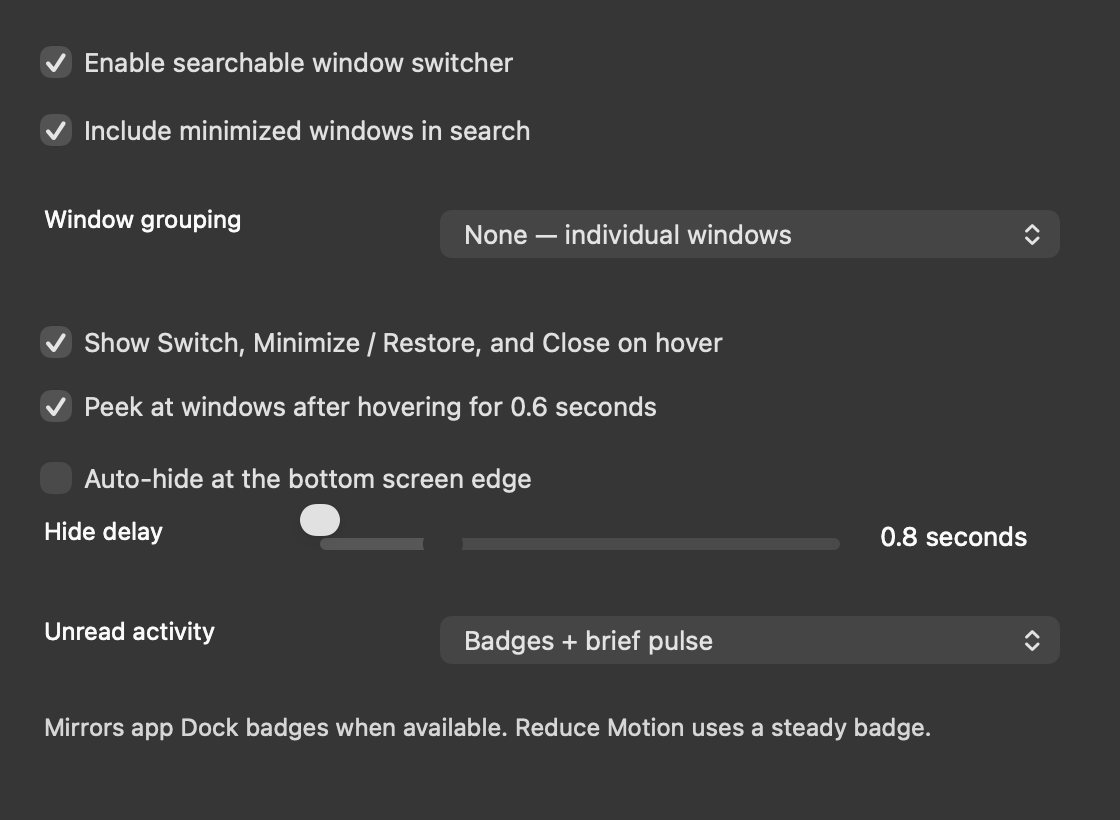
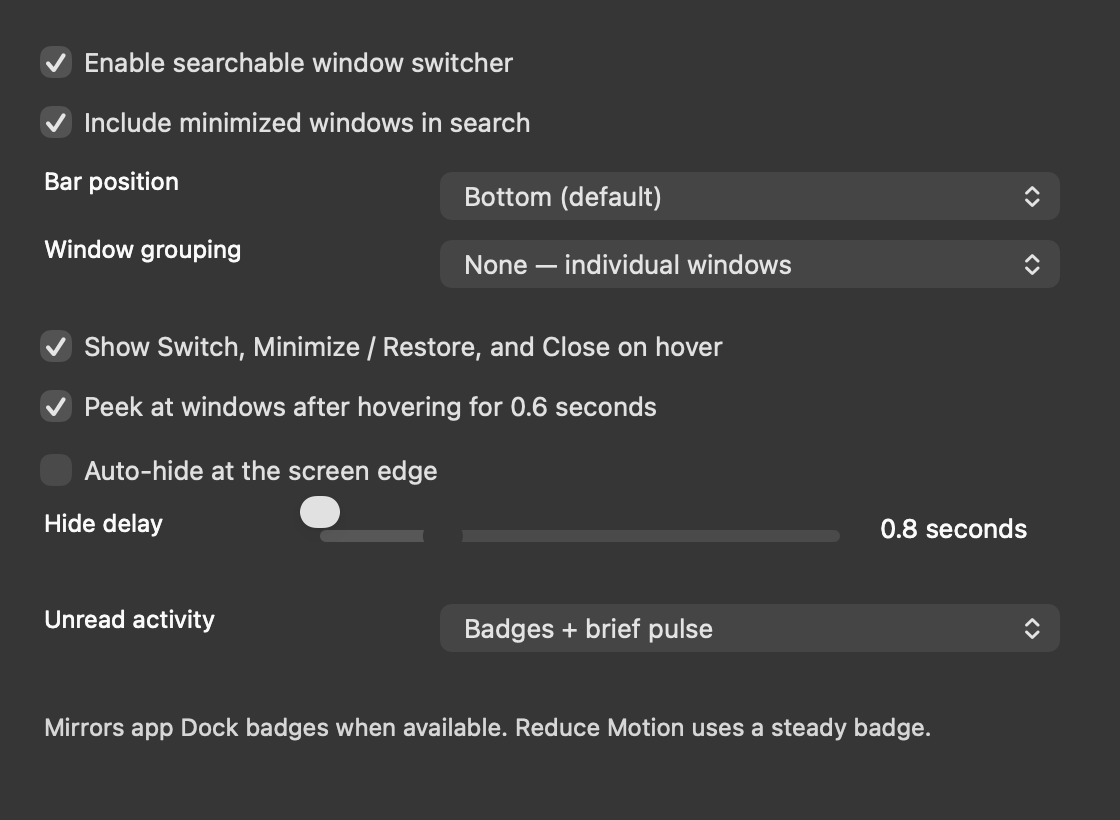
Render side dock, bar tint and Appearance screenshots
PreviewRenderer now renders the side column, the collapsed column and a
strongly tinted bar from sample data. Behavior and Appearance settings
images are refreshed for the Bar position and Appearance options.

diff --git a/Sources/WindowBar/Preview/PreviewRenderer.swift b/Sources/WindowBar/Preview/PreviewRenderer.swift
@@ -115,6 +115,13 @@ enum PreviewRenderer {
         grouped.blendingMode = .withinWindow
         grouped.layer?.backgroundColor = NSColor(calibratedWhite: 0.16, alpha: 1).cgColor
         try writeView(grouped, to: directory.appendingPathComponent("grouping.png"))
+        var tinted = BarPreferences()
+        tinted.barTint = .strong
+        grouped.update(
+            entries: sampleWindows(), trusted: true, launchers: sampleLaunchers(), preferences: tinted)
+        grouped.layoutSubtreeIfNeeded()
+        try writeView(grouped, to: directory.appendingPathComponent("bar-tint.png"))
+        try sideColumns(in: directory)
         if let button = FeatureViewVerification.descendants(grouped).compactMap({ $0 as? WindowButton })
             .first(where: { !$0.entry.focused })
         {
@@ -127,6 +134,28 @@ enum PreviewRenderer {
                 try writeView(view, to: directory.appendingPathComponent("hover-actions.png"))
             }
             hover.hide()
+        }
+    }
+
+    private static func sideColumns(in directory: URL) throws {
+        for (name, collapsed) in [("side-dock", false), ("side-dock-collapsed", true)] {
+            var side = BarPreferences()
+            side.barEdge = .right
+            side.sideCollapsed = collapsed
+            let width = CGFloat(collapsed ? ColumnLayout.collapsedWidth : ColumnLayout.width)
+            let panel = TaskbarPanel(
+                contentRect: NSRect(x: 0, y: 0, width: width, height: 760),
+                styleMask: [.borderless, .nonactivatingPanel], backing: .buffered, defer: false)
+            panel.isReleasedWhenClosed = false
+            defer { panel.close() }
+            let column = BarView(frame: NSRect(origin: .zero, size: panel.frame.size))
+            panel.contentView = column
+            column.update(
+                entries: sampleWindows(), trusted: true, launchers: sampleLaunchers(), preferences: side)
+            column.layoutSubtreeIfNeeded()
+            column.blendingMode = .withinWindow
+            column.layer?.backgroundColor = NSColor(calibratedWhite: 0.16, alpha: 1).cgColor
+            try writeView(column, to: directory.appendingPathComponent("\(name).png"))
         }
     }
 
